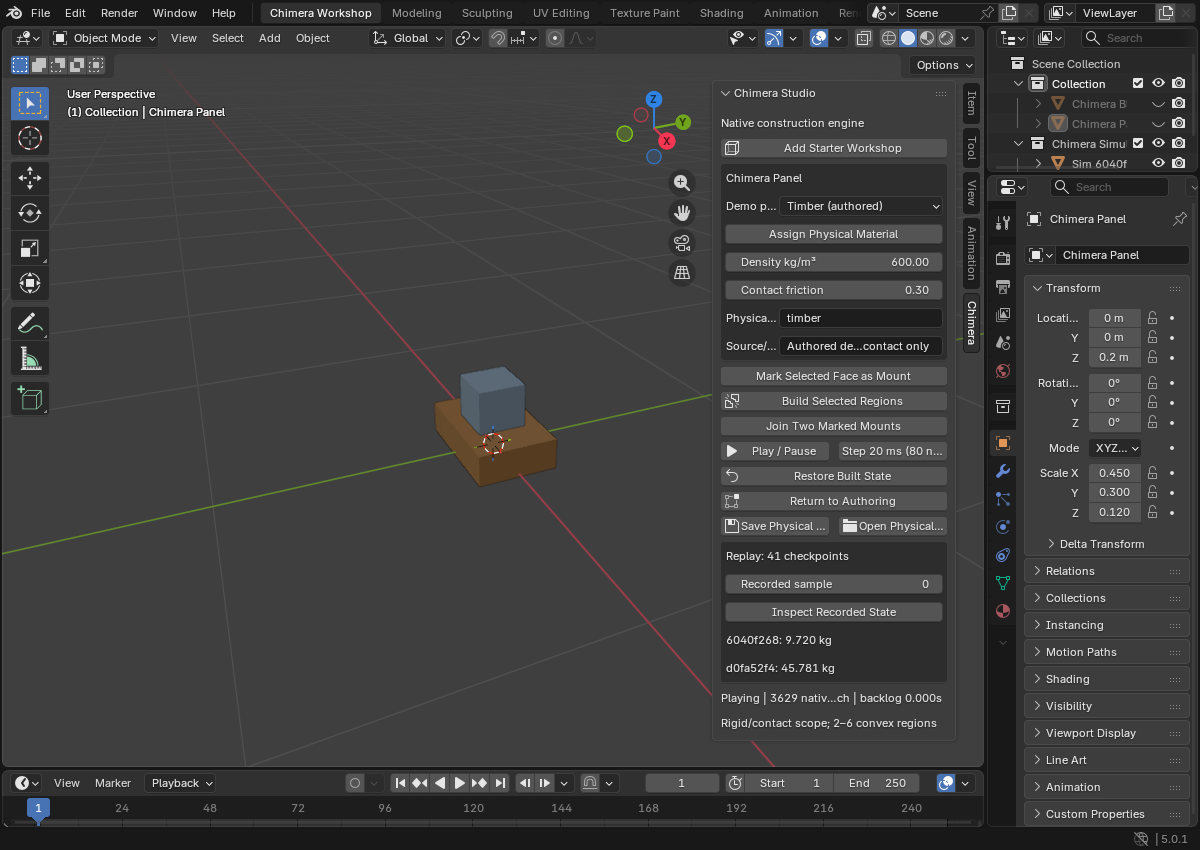
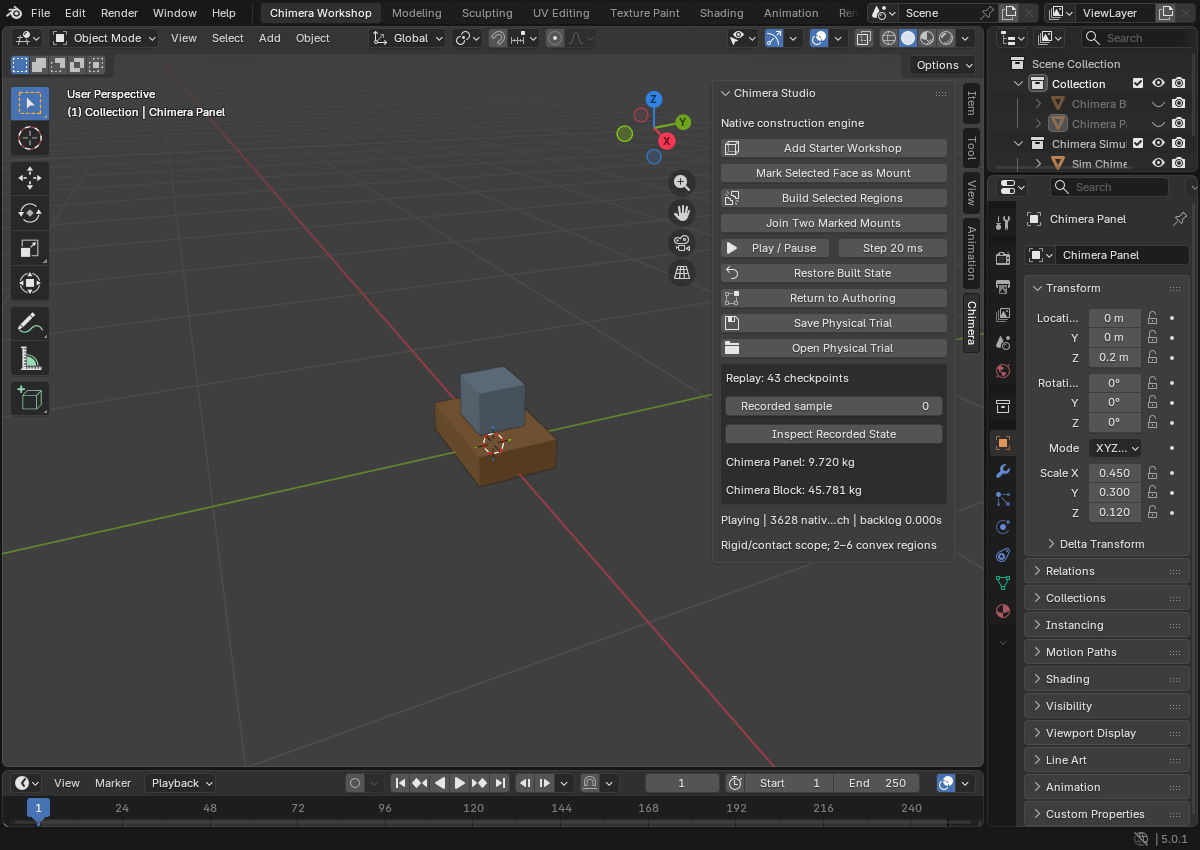
Record completed custom build and native Blender integration evidence
Agent: Codex

Changed region(s): [[0.5858, 0.1835, 0.8017, 0.8565]]

diff --git a/README.md b/README.md
@@ -50,3 +50,7 @@ From this directory, `./tools/Build-Native.ps1` builds the private DLL. `./tools
 Blender fork: `../blender`, branch `chimera/studio-v5.0.1`, upstream tag `v5.0.1` (a3db93c5b2595a79f65f304114c23aeef8c2139f). Source edits are window branding and a Chimera application template. Integration: this directory. Build output: `../build-blender`; no shared engine build directory is used. No public fork/release is implied by these local repositories.
 
 `LICENSE` preserves the source project's AGPL-3.0 license. Original Blender license files remain in its fork. `vendor/chimera` is an unchanged attributed snapshot; see `SOURCE_LOCK.json`. Integration source is AGPL-3.0-or-later. Application template and Blender edits retain Blender-compatible GPL-3.0-or-later headers. Keep these notices and source available with any later distribution.
+
+## Installed build result
+
+The custom executable was built and tested from Blender fork commit `68c79f03362ebc6e41d16a10b77c8f794097e644` and integration source commit `09471402e501619a923c7d516af1d54234897a8a`. Ten background integration checks, the installed application-template check (including configuration isolation), and a short real-window viewport/native-play check passed. See `evidence/build-manifest.json` for exact executable/DLL identities and `evidence/viewport.png` for the actual view. Full scene throughput and human usability remain unmeasured.
